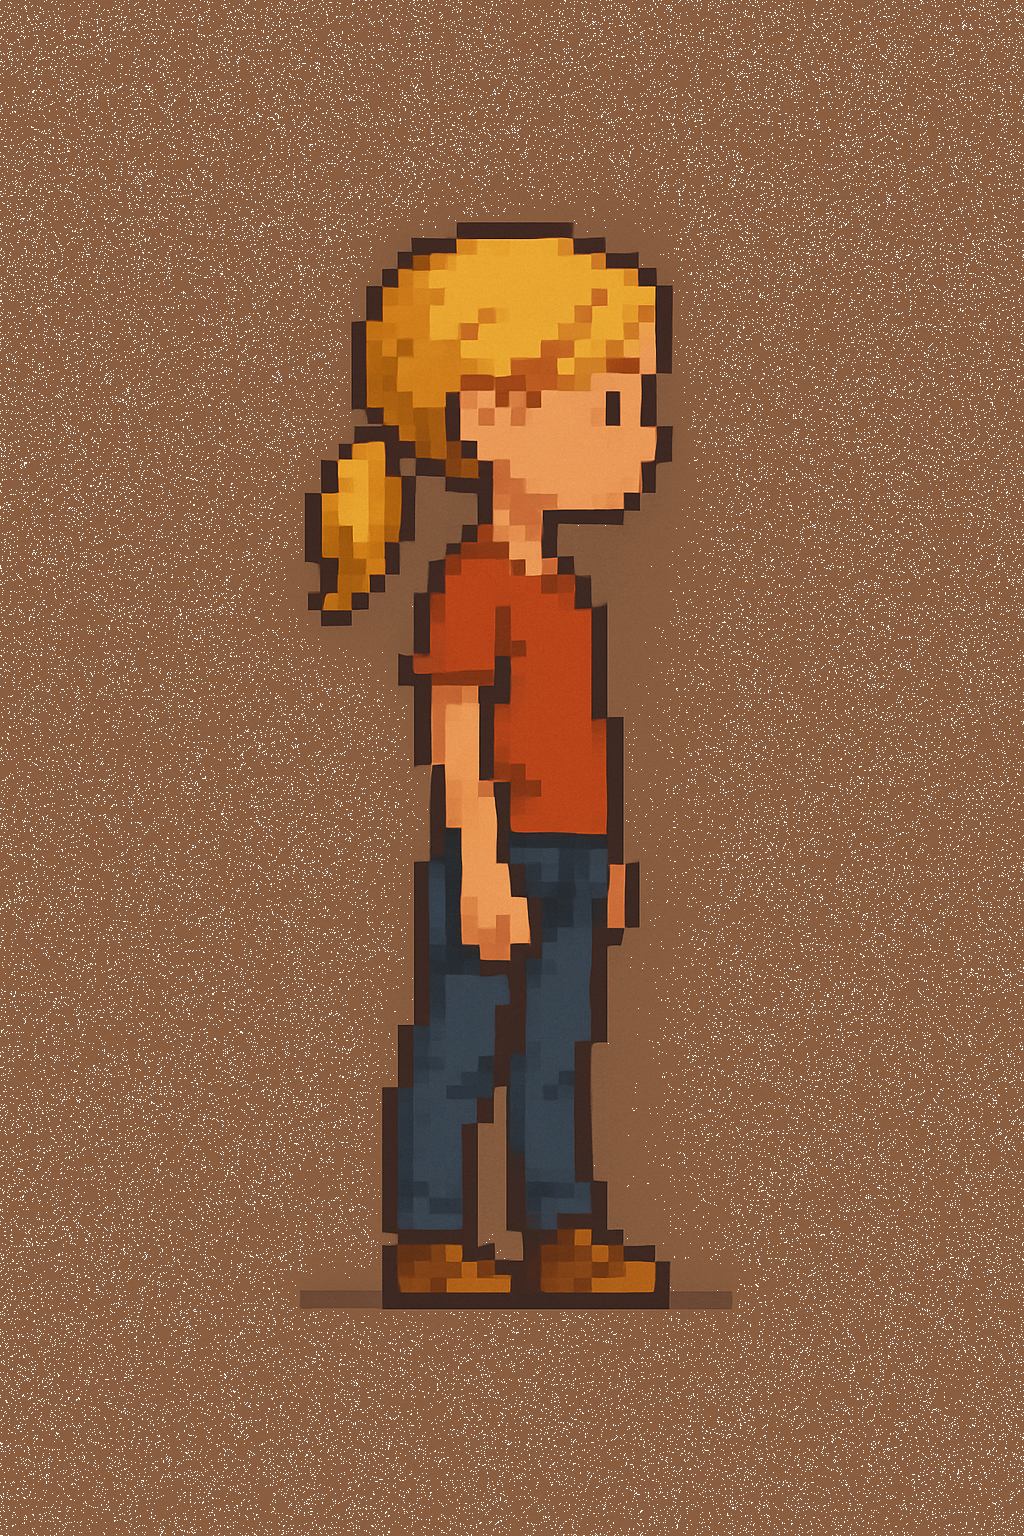
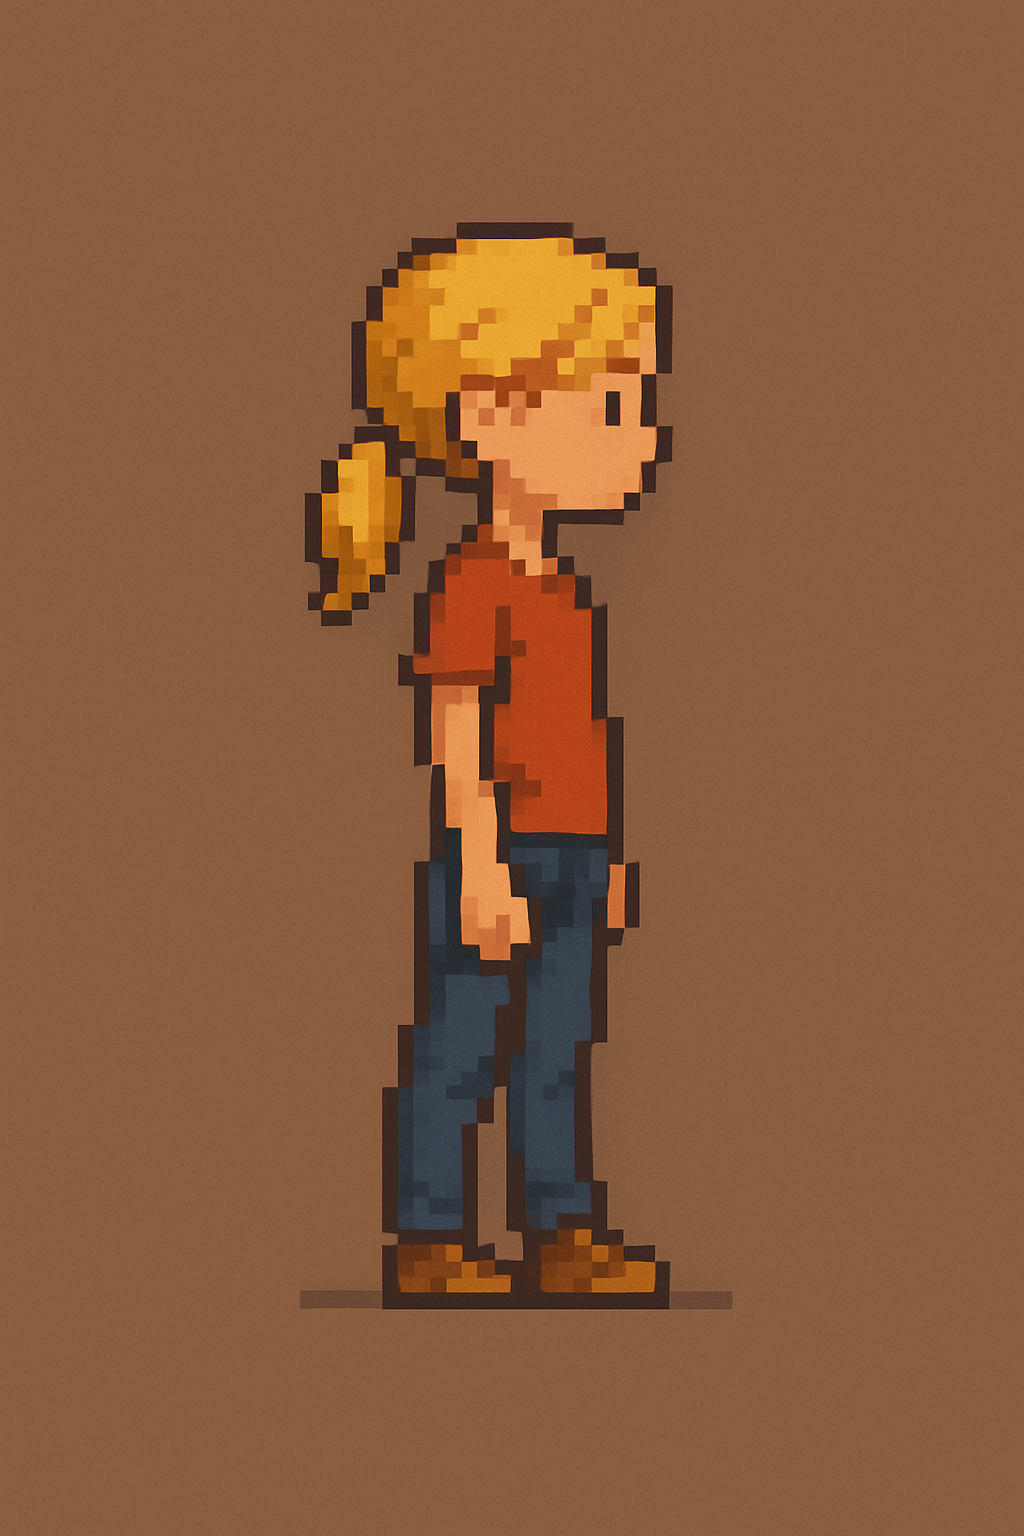
atualização

diff --git a/script.js b/script.js
@@ -10,6 +10,24 @@ const finalizacao = document.getElementById("finalizacao")
 canvas.width = window.innerWidth;
 canvas.height = window.innerHeight;
 
+// Objeto para armazenar sprites carregados
+const sprites = {};
+
+// Função para carregar sprites
+function loadSprite(name, url) {
+    const img = new Image();
+    img.src = url;
+    img.onload = () => {
+        sprites[name] = img;
+    };
+    img.onerror = () => {
+        console.error(`Erro ao carregar sprite: ${url}`);
+    };
+}
+
+loadSprite("menina", "https://i.imgur.com/37ZXps2.png");
+loadSprite("lixo", "");
+
 // Variável que armazena os pontos do jogador
 let pontos = 0;
 
@@ -18,8 +36,10 @@ let formattedTime = "00:00:00"
 // Variável que indica se o jogador pode clicar no item
 let podeClicar = false;
 
+
 // Objeto que representa o jogador
 const player = {
+    sprite:"menina",
     x: 100,                                // Posição inicial no eixo X
     y: canvas.height - 100,                // Posição inicial no eixo Y (perto do chão)
     width: 64,                             // Largura do jogador
@@ -28,8 +48,7 @@ const player = {
     vy: 0,                                 // Velocidade vertical (para o pulo)
     gravity: 0.5,                          // Gravidade que afeta o pulo
     onGround: false,                       // Indica se está no chão
-    color: "black"                          // Cor do jogador
-};
+}
 
 // Objeto que representa o chão
 const ground = {
@@ -50,12 +69,15 @@ const item = {
     visible: true                           // Se o item está visível
 };
 
-// Função para desenhar um retângulo na tela (usada para jogador, chão, item)
-function drawRect(obj) {
-    ctx.fillStyle = obj.color;              // Define a cor de preenchimento
-    ctx.fillRect(obj.x, obj.y, obj.width, obj.height); // Desenha o retângulo
+// Função para desenhar um objeto (sprite ou retângulo)
+function drawObject(obj) {
+    if (obj.sprite && sprites[obj.sprite]) {
+        ctx.drawImage(sprites[obj.sprite], obj.x, obj.y, obj.width, obj.height);
+    } else {
+        ctx.fillStyle = obj.color || "black";
+        ctx.fillRect(obj.x, obj.y, obj.width, obj.height);
+    }
 }
-
 // Função que desenha a pontuação na tela
 function drawScore() { 
     ctx.fillStyle = "black";                // Cor do texto
@@ -174,12 +196,11 @@ function loop() {
         podeClicar = true;                            // Ativa clique no item
     } else {
         podeClicar = false;                           // Desativa se não estiver tocando
-    }
-
-    drawRect(ground);                                 // Desenha o chão
-    drawRect(player);                                // Desenha o jogador
-
-    if (item.visible) drawRect(item);                 // Desenha o item se visível
+    }  
+    
+    drawObject(ground);
+    drawObject(player);
+    if (item.visible) drawObject(item);                // Desenha o item se visível
 
     drawScore();                                      // Mostra a pontuação
     drawTimer();
